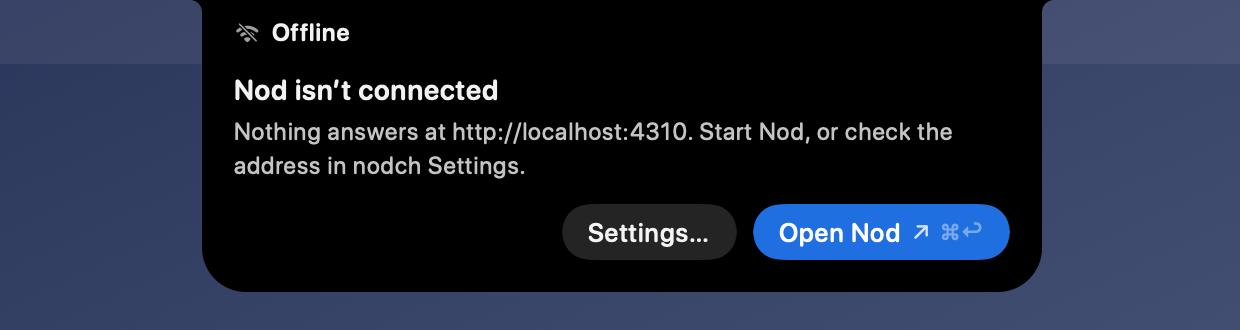
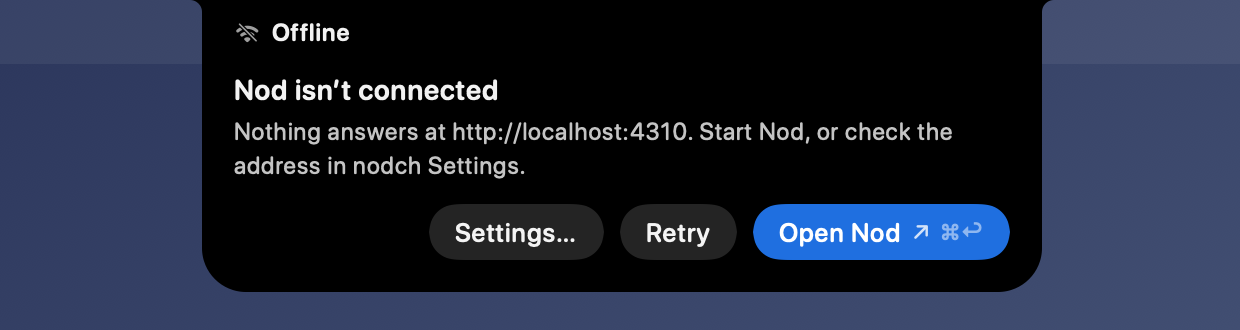
Prepare 0.1.1: an animated tour, re-rendered screenshots, fixed troubleshooting (#23)
* Add the social preview image

* Prepare 0.1.1: an animated tour, re-rendered screenshots, fixed troubleshooting

- README opens with an animated tour rendered from the snapshot scenes.
- Screenshots re-rendered with the lighter hint text.
- Troubleshooting: microphone denied and no microphone are separate rows,
  macOS asks only for the microphone, the contract test needs Node 24.
- docs/images/social.png is the repository's social preview.
- Version 0.1.1 and its changelog entry.

* Quote the host-name message as nodch shows it

---------

Changed region(s): [[0.3371, 0.6061, 0.5823, 0.7879]]

diff --git a/README.md b/README.md
@@ -5,7 +5,7 @@ questions and approve what it wants to do, without leaving the app you are in.
 
 **Unofficial.** nodch is an independent project and is not affiliated with or endorsed by n8n.
 
-<p align="center"><img src="docs/images/answer.png" width="620" alt="Nod's answer in the notch, with a follow-up field below it"></p>
+<p align="center"><img src="docs/images/tour.gif" width="620" alt="A tour of nodch in the notch: dictating a prompt, Nod working, its answer, a question with choices, and an approval for sending an email"></p>
 
 nodch lives in the MacBook notch, or at the top of the screen on displays without one, on the display you are
 working on. It does a few things and hands everything else to Nod:
@@ -38,7 +38,7 @@ to it.
    unzip it and move **Nodch** to Applications. The app is signed and notarized.
 2. Open it. If nodch can't reach Nod at `http://localhost:4310`, its Settings open: enter the address you open Nod at
    and, for the self-host stack, the token (`NOD_AUTH_TOKEN` in Nod's `.env`). **Test connection**, then **Save**.
-3. Press <kbd>⌥ Space</kbd>. The first time, macOS asks for the microphone and speech recognition.
+3. Press <kbd>⌥ Space</kbd>. The first time, macOS asks for the microphone.
 
 Right-click the island for **Settings…**, **Start at login** and **Quit nodch**.
 
@@ -80,10 +80,12 @@ too.
 | You see | Do |
 |---|---|
 | "Nothing answers at …" | Start Nod, or fix the address in Settings. |
-| "doesn't accept this host name" (403) | Use the host from Nod's `NOD_PUBLIC_URL`, usually `localhost`, not `127.0.0.1`. |
+| "doesn’t accept this host name" (403) | Use the host from Nod's `NOD_PUBLIC_URL`, usually `localhost`, not `127.0.0.1`. |
 | "Nod rejected the token" (401) | Paste `NOD_AUTH_TOKEN` from Nod's `.env` into Settings. |
 | <kbd>⌥ Space</kbd> does nothing | Another app may own the shortcut; pick another one (see Keys). |
-| No microphone | System Settings › Privacy & Security › Microphone, allow nodch. |
+| "Voice is off: allow nodch…" | Click **Open Settings** next to it and allow nodch under Microphone. |
+| "Voice is off: no microphone found." | Connect a microphone, or pick one in System Settings › Sound › Input. |
+| "Nod isn’t connected" | Fix what the card says, then **Retry**. |
 
 To uninstall, quit nodch, turn off Start at login and delete the app. To remove its settings too:
 `defaults delete dev.nodch.Nodch`, and delete the "nodch: Nod token" item in Keychain Access.
@@ -113,7 +115,7 @@ Without a Nod at hand:
 swift run --package-path app Nodch --demo              # cycles through every state
 swift run --package-path app Nodch --snapshot <dir>    # renders every state to PNG
 swift run --package-path app Nodch --transcribe <file> # the prompt's speech-to-text on an audio file
-scripts/contract.sh                                    # a real Nod in Docker with a free stub model
+scripts/contract.sh                                    # a real Nod with a free stub model (Node 24, Docker)
 ```
 
 See [docs/contract.md](docs/contract.md) for the contract test, [CONTRIBUTING.md](CONTRIBUTING.md) before a pull

diff --git a/CHANGELOG.md b/CHANGELOG.md
@@ -3,6 +3,19 @@
 All notable changes to nodch are documented here. The format follows
 [Keep a Changelog](https://keepachangelog.com/en/1.1.0/).
 
+## 0.1.1 — 2026-11-14
+
+### Fixed
+- Return under a question from Nod that just appeared waits out the same short guard as a click, so keys typed for
+  another app can't answer Nod.
+- Mails and photos dropped from Mail or Photos are deleted from nodch's caches once uploaded, and at launch.
+
+### Changed
+- Hint text is easier to read (above WCAG's 4.5:1 contrast).
+- When macOS denies the microphone, an Open Settings link takes you to the right privacy pane.
+- The offline card has Retry, which connects to Nod again right away.
+- README: an animated tour, corrected troubleshooting, and a social preview image.
+
 ## 0.1.0 — 2026-11-13
 
 ### Settings and keys
